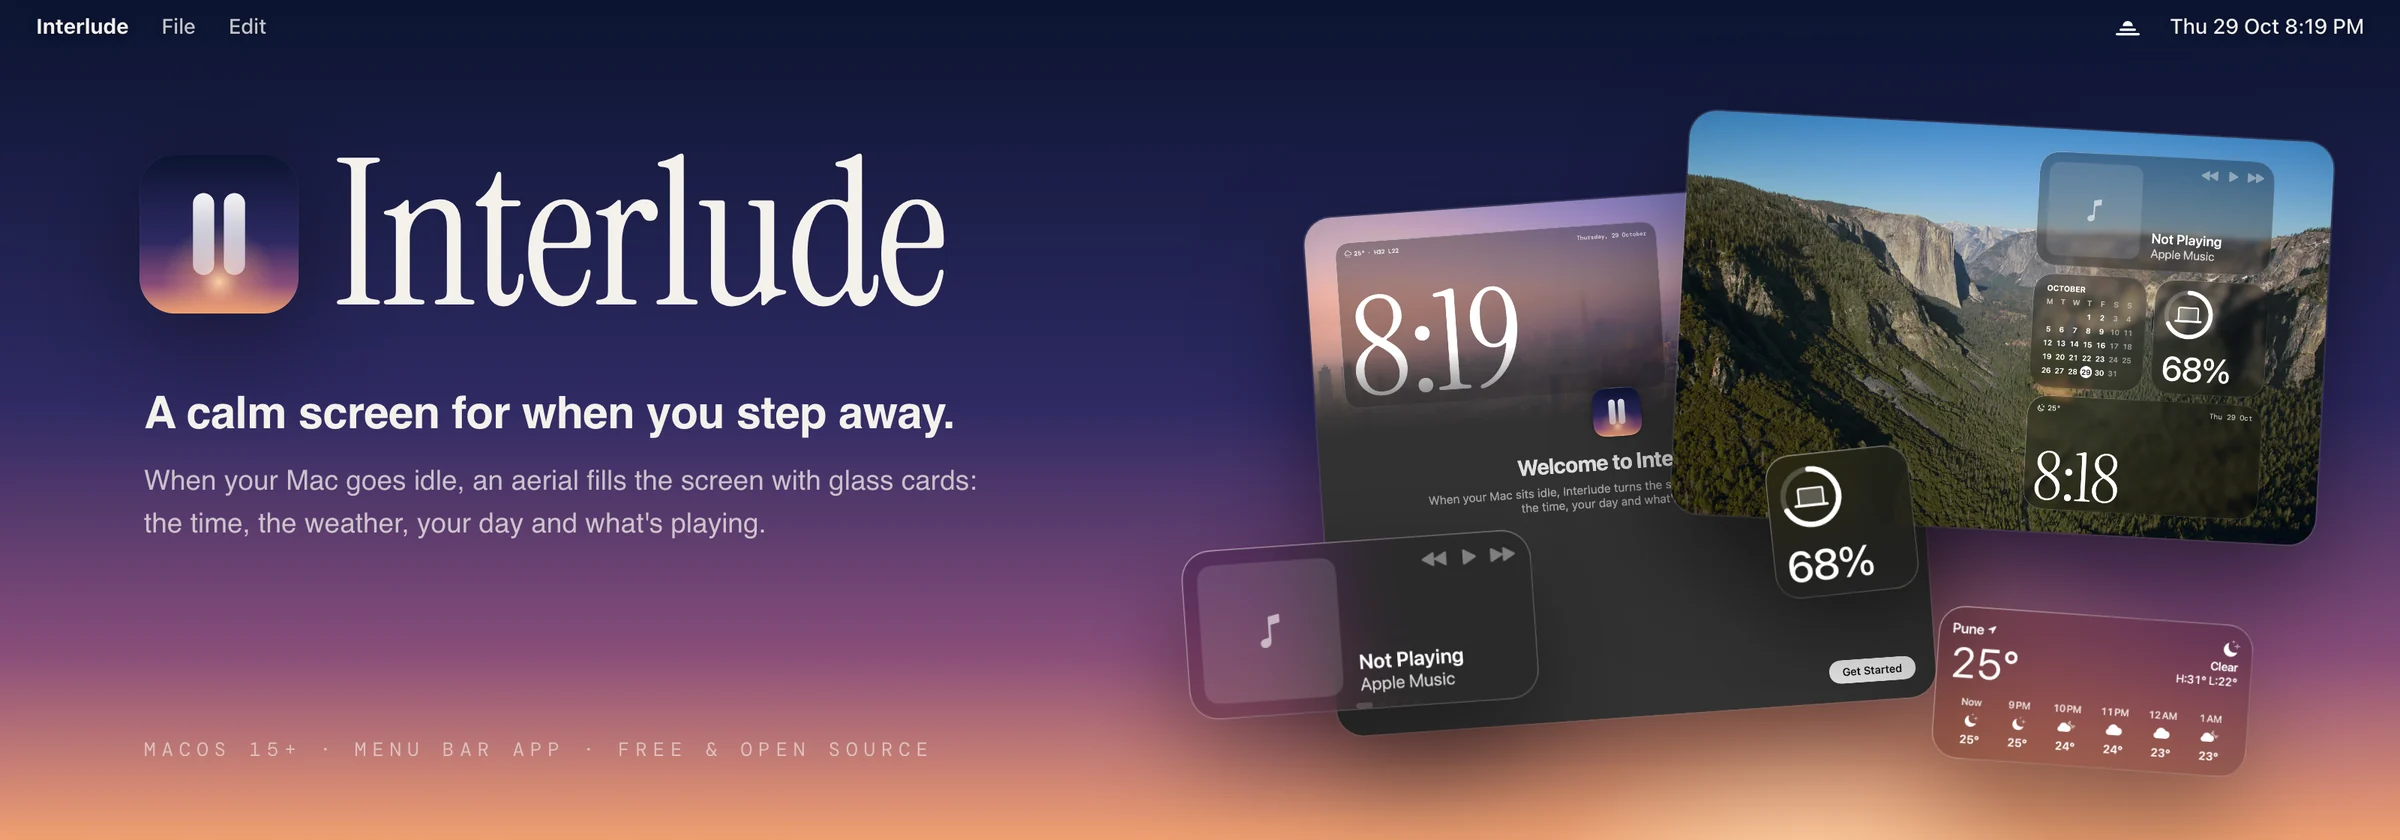
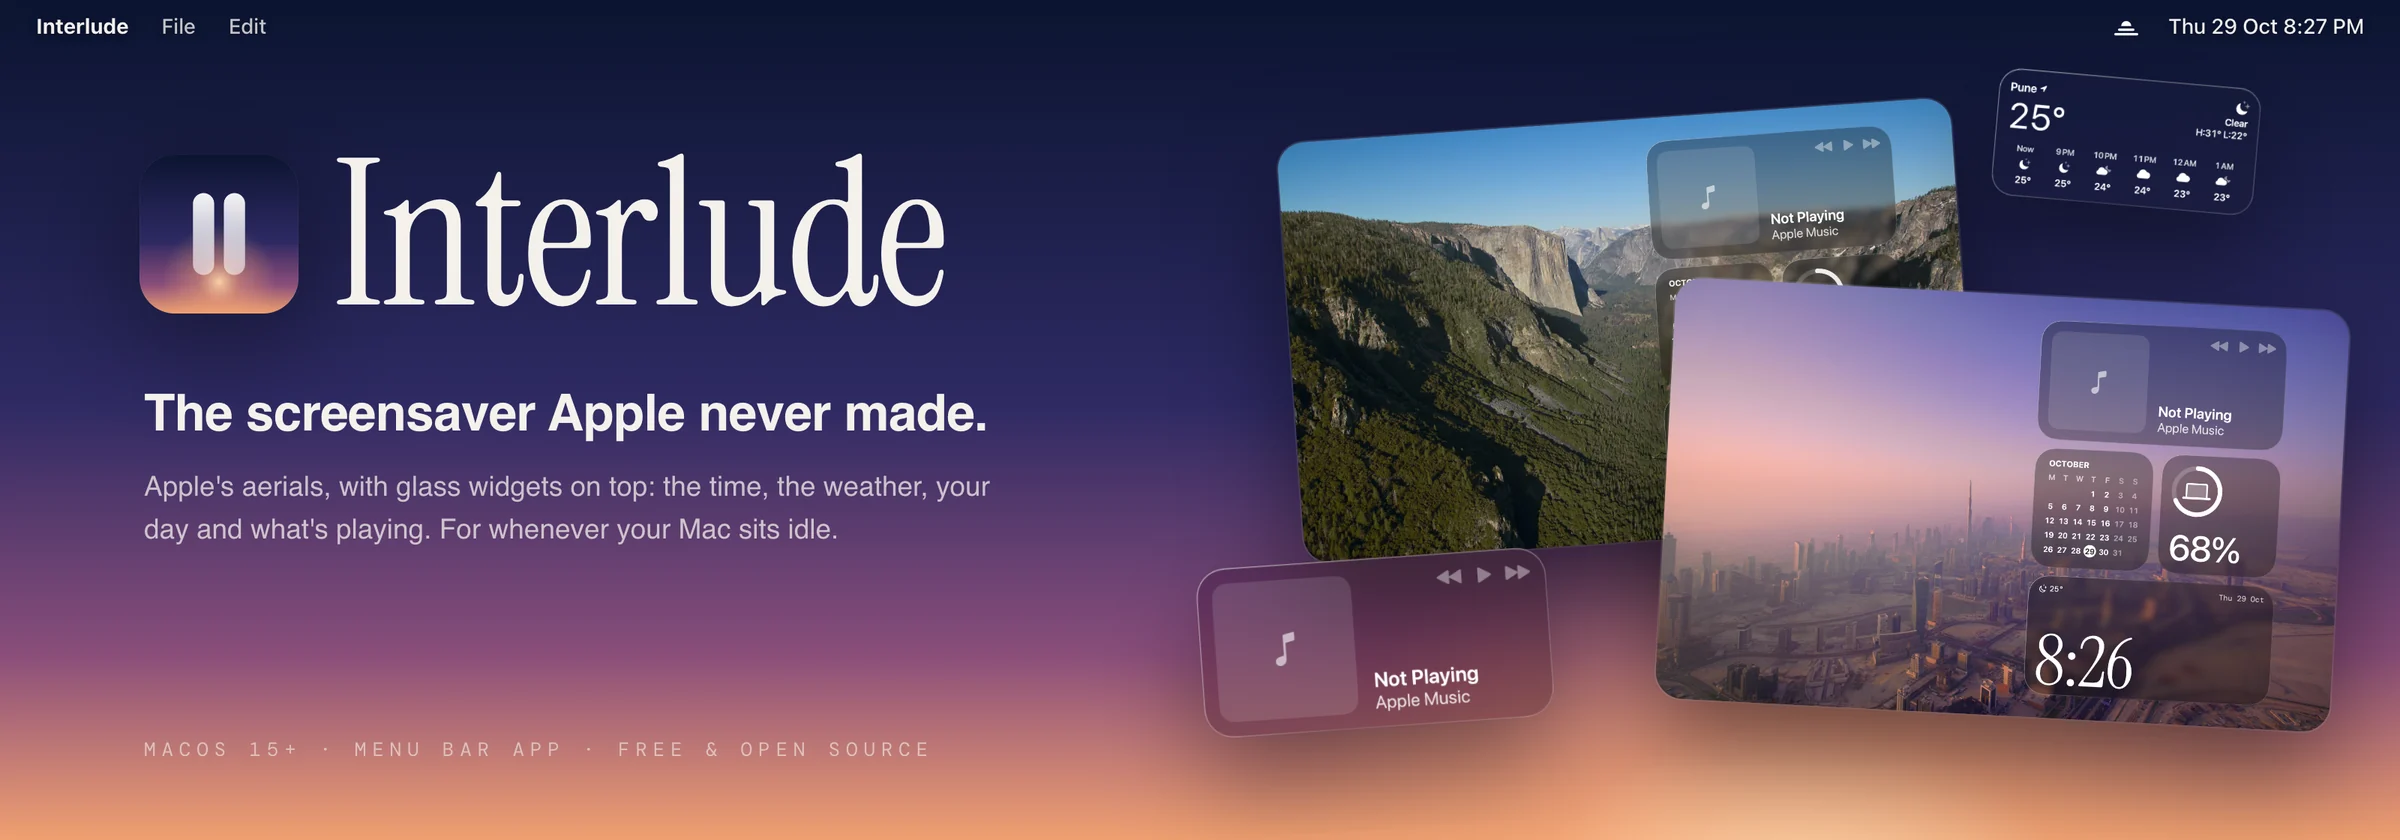
README: the screensaver Apple never made, with every widget
- New pitch and banner tagline.
- One picture per widget showing every size and style, rendered in
  glass over the aerials, instead of screenshots of the welcome window
  and Settings.
- The renderer saves these widget sheets alongside the other pictures.

diff --git a/Sources/Interlude/CardRenderer.swift b/Sources/Interlude/CardRenderer.swift
@@ -19,6 +19,7 @@ enum CardRenderer {
             backdrop(i)
             renderStandby(overlay: overlay, to: folder, name: "-" + url.deletingPathExtension().lastPathComponent)
         }
+        renderGallery(model: overlay.demo, to: folder.appending(path: "gallery"), backdrops: backdrops)
         backdrop(0)
         renderStandby(overlay: overlay, to: folder)
         let panes = SettingsPane.allCases
@@ -57,6 +58,54 @@ enum CardRenderer {
             }
         }
         next(0)
+    }
+
+    /// One picture per widget: every size and style it comes in, in glass on a wallpaper, for the README.
+    static func renderGallery(model: OverlayModel, to folder: URL, backdrops: [URL]) {
+        try? FileManager.default.createDirectory(at: folder, withIntermediateDirectories: true)
+        let entrance = Entrance()
+        entrance.shown = true
+        let grid = Grid.preview(u: 9)
+        let pad: CGFloat = 56, gap: CGFloat = 36, caption: CGFloat = 30
+        for (i, widget) in Widget.allCases.enumerated() {
+            if !backdrops.isEmpty { PreviewBackdrop.image = NSImage(contentsOf: backdrops[(i + 2) % backdrops.count]) }
+            let sizes = widget.sizes
+            let rowWidth = { (s: WidgetSize) in CGFloat(widget.styles(s).count) * (grid.w(s) + gap) - gap }
+            let size = CGSize(width: sizes.map(rowWidth).max()! + 2 * pad,
+                              height: sizes.map { grid.h($0) + caption + gap }.reduce(0, +) - gap + 2 * pad)
+            let sheet = ZStack(alignment: .topLeading) {
+                PreviewBackdrop().frame(width: size.width, height: size.height).clipped()
+                VStack(alignment: .leading, spacing: gap) {
+                    ForEach(sizes) { cardSize in
+                        HStack(alignment: .top, spacing: gap) {
+                            ForEach(widget.styles(cardSize).indices, id: \.self) { style in
+                                VStack(alignment: .leading, spacing: 12) {
+                                    WidgetCardView(model: model, widget: widget, size: cardSize, style: style, grid: grid)
+                                    Text("\(cardSize.name) · \(widget.styles(cardSize)[style])".uppercased())
+                                        .font(.custom("DM Mono", size: 13))
+                                        .tracking(1.5)
+                                        .opacity(0.85)
+                                        .shadow(color: .black.opacity(0.6), radius: 6)
+                                        .frame(height: caption - 12, alignment: .leading)
+                                }
+                            }
+                        }
+                    }
+                }
+                .padding(pad)
+            }
+            .frame(width: size.width, height: size.height)
+            .frostBackdrop(size)
+            let renderer = ImageRenderer(content: sheet
+                .foregroundStyle(.white)
+                .environment(\.colorScheme, .dark)
+                .environment(\.plainCards, true)
+                .environmentObject(entrance))
+            renderer.scale = 2
+            guard let tiff = renderer.nsImage?.tiffRepresentation,
+                  let png = NSBitmapImageRep(data: tiff)?.representation(using: .png, properties: [:]) else { continue }
+            try? png.write(to: folder.appendingPathComponent("\(widget.rawValue).png"))
+        }
     }
 
     /// The standby screen with sample data, and the welcome window's picture, for the README.

diff --git a/README.md b/README.md
@@ -1,5 +1,5 @@
 <p align="center">
-  <img src="docs/media/banner.webp" alt="Interlude: a calm screen for when you step away. The logo and title beside the welcome window, a standby screen over Yosemite, and floating Now Playing, battery and weather cards." width="100%">
+  <img src="docs/media/banner.webp" alt="Interlude: the screensaver Apple never made. The logo and title beside two standby screens, over Yosemite and Dubai, with floating Now Playing and weather widgets." width="100%">
 </p>
 
 <p align="center">
@@ -11,69 +11,92 @@
 
 ---
 
-## What is this?
+## The screensaver Apple never made
 
-When your Mac has been idle for a few minutes, Interlude fills the screen with one of Apple's aerial
-videos and a set of glass cards: a large clock, the weather, your calendar and reminders, world
-clocks, a focus timer and what's playing. When music is playing, the album art can become the
-background. Move the mouse, press Esc or click the wallpaper to go back to work.
+Apple's aerial screensavers are some of the best footage ever put on a Mac, and all they show you is
+the view. Interlude keeps the view and adds what you'd want to glance at from across the room: the
+time, the weather, your day, what's playing. Glass widgets, in the style of macOS, over the same aerials.
 
-It's StandBy for the Mac: something worth glancing at from across the room, instead of a black screen.
-
-## See it
+It starts when your Mac has been idle for a few minutes. Move the mouse, press Esc or click the
+wallpaper, and you're back.
 
 <p align="center">
-  <img src="docs/media/standby.webp" alt="The standby screen on a MacBook: Now Playing, calendar, battery and a large clock in glass cards over a Hawaiian coastline" width="100%">
+  <img src="docs/media/standby.webp" alt="Interlude on a MacBook: Now Playing, calendar, battery and a large clock in glass widgets over a Hawaiian coastline" width="100%">
 </p>
 
-<table>
-<tr>
-<td width="55%"><img src="docs/media/welcome.webp" alt="The welcome window, showing the standby screen built from the real cards"></td>
-<td><b>A short welcome</b><br><br>Five quick steps on first launch: when Interlude starts, a starting layout, and which cards may read your calendar, reminders, location and music. Every step can be skipped, and Settings › Privacy can show it again.</td>
-</tr>
-<tr>
-<td><img src="docs/media/starter-layouts.webp" alt="Picking a starting layout: Minimal, Your Day or At the Desk"></td>
-<td><b>Pick a layout</b><br><br>Minimal, Your Day or At the Desk. Each thumbnail is drawn with the real cards, so what you pick is what you get.</td>
-</tr>
-<tr>
-<td><img src="docs/media/settings-layout.webp" alt="Settings › Layout: the whole screen in miniature with cards to drag, resize and restyle"></td>
-<td><b>Your screen, your way</b><br><br>Drag cards around a miniature of your screen, resize them, pick a style for each, or add more from the gallery. Separate layouts can take over while music plays or at night.</td>
-</tr>
-<tr>
-<td><img src="docs/media/settings-appearance.webp" alt="Settings › Appearance: clock font and colour, night mode and card material, with a live preview"></td>
-<td><b>Appearance</b><br><br>Clock font and colour (including one that matches the album art), a night mode that dims everything to red or grey, and frosted or Liquid Glass cards. The preview updates as you change things.</td>
-</tr>
-</table>
+## Widgets
+
+Eight widgets, each in two to four sizes and two or three styles. Place them anywhere on a grid that
+fits your screen, and keep separate layouts for when music plays and for night.
+
+### Clock
+
+SF Pro or a serif, in white, a colour you pick or the colour of the album playing. Digital or analog,
+from a small square to the full width of the screen.
+
+<img src="docs/media/widgets/clock.webp" alt="The Clock widget in every size and style: stacked, analog, classic, centred, big and with info" width="100%">
 
 <table>
 <tr>
-<td width="33%"><img src="docs/media/settings-music.webp" alt="Settings › Music: what sits behind the Now Playing card, and which players Interlude may read"></td>
-<td width="33%"><img src="docs/media/settings-widgets.webp" alt="Settings › Widgets: world clock cities, focus timer length and reminders list"></td>
-<td width="33%"><img src="docs/media/settings-wallpaper.webp" alt="Settings › Wallpaper: aerials from System Settings, by category"></td>
+<td width="50%" valign="top">
+<h3>Weather</h3>
+Now, the next hours, the week ahead or the details, for your approximate location.
+<br><br>
+<img src="docs/media/widgets/weather.webp" alt="The Weather widget in every size and style">
+</td>
+<td width="50%" valign="top">
+<h3>Calendar</h3>
+The month, today's events, the next one up, or an agenda for the week.
+<br><br>
+<img src="docs/media/widgets/calendar.webp" alt="The Calendar widget in every size and style">
+</td>
 </tr>
 <tr>
-<td align="center"><sub>Music</sub></td>
-<td align="center"><sub>Widgets</sub></td>
-<td align="center"><sub>Wallpaper</sub></td>
+<td valign="top">
+<h3>Reminders</h3>
+Your default list, by due date or in columns. Click a circle to complete one.
+<br><br>
+<img src="docs/media/widgets/reminders.webp" alt="The Reminders widget in every size and style">
+</td>
+<td valign="top">
+<h3>World Clock</h3>
+Four cities of your choice, as clock faces or digits.
+<br><br>
+<img src="docs/media/widgets/worldClock.webp" alt="The World Clock widget in every size and style">
+</td>
+</tr>
+<tr>
+<td valign="top">
+<h3>Focus Timer</h3>
+Click to start, right-click to reset. It keeps running while Interlude is closed and chimes when it ends.
+<br><br>
+<img src="docs/media/widgets/timer.webp" alt="The Focus Timer widget in every size and style">
+</td>
+<td valign="top">
+<h3>Battery</h3>
+Your Mac, AirPods, mouse and keyboard, as rings or a list.
+<br><br>
+<img src="docs/media/widgets/battery.webp" alt="The Battery widget in every size and style">
+</td>
 </tr>
 </table>
 
-<sub>Screenshots are drawn by the app itself, with sample data.</sub>
+### Now Playing
 
-## Features
+Apple Music and Spotify. Space plays or pauses, ← and → skip. While music plays, the album art can
+take over the background. When nothing plays, the widget says so.
 
-- **Clock** in four sizes and several styles, in SF Pro or a serif, in white, a custom colour or the album's colour.
-- **Weather** for your approximate location, now and for the next hours or days.
-- **Calendar**: a month, today's agenda or the next event.
-- **Reminders** from your default list. Click a circle to complete one.
-- **Now playing** for Apple Music and Spotify. Space plays or pauses, ← and → skip tracks. When nothing plays, the card says so.
-- **World clock** with four cities, and a **focus timer** that keeps running while Interlude is closed.
-- **Battery** for your Mac and connected devices.
-- **Night mode** on a schedule or always: no wallpaper, every card dimmed to red or grey.
-- **Aerial wallpapers** from System Settings › Wallpaper. Downloaded aerials play from disk.
-- **Start rules**: only while charging, wait during video calls or films, choose a display.
+<img src="docs/media/widgets/nowPlaying.webp" alt="The Now Playing widget in every size and style, with nothing playing" width="100%">
 
-Interlude lives in the menu bar. It has no Dock icon.
+<sub>Every picture here is drawn by the app itself, with sample data.</sub>
+
+## And everything around them
+
+- **Liquid Glass or frosted** widgets, dark or light, with the blur and tint you like.
+- **Every aerial** from System Settings › Wallpaper: one you pick, a category, or a new one each time.
+- **Night mode** on a schedule or always: the wallpaper goes dark and every widget dims to red or grey.
+- **Start rules**: only while charging, wait during video calls and films, pick the display.
+- **Lives in the menu bar**, with no Dock icon.
 
 ## Requirements
 
